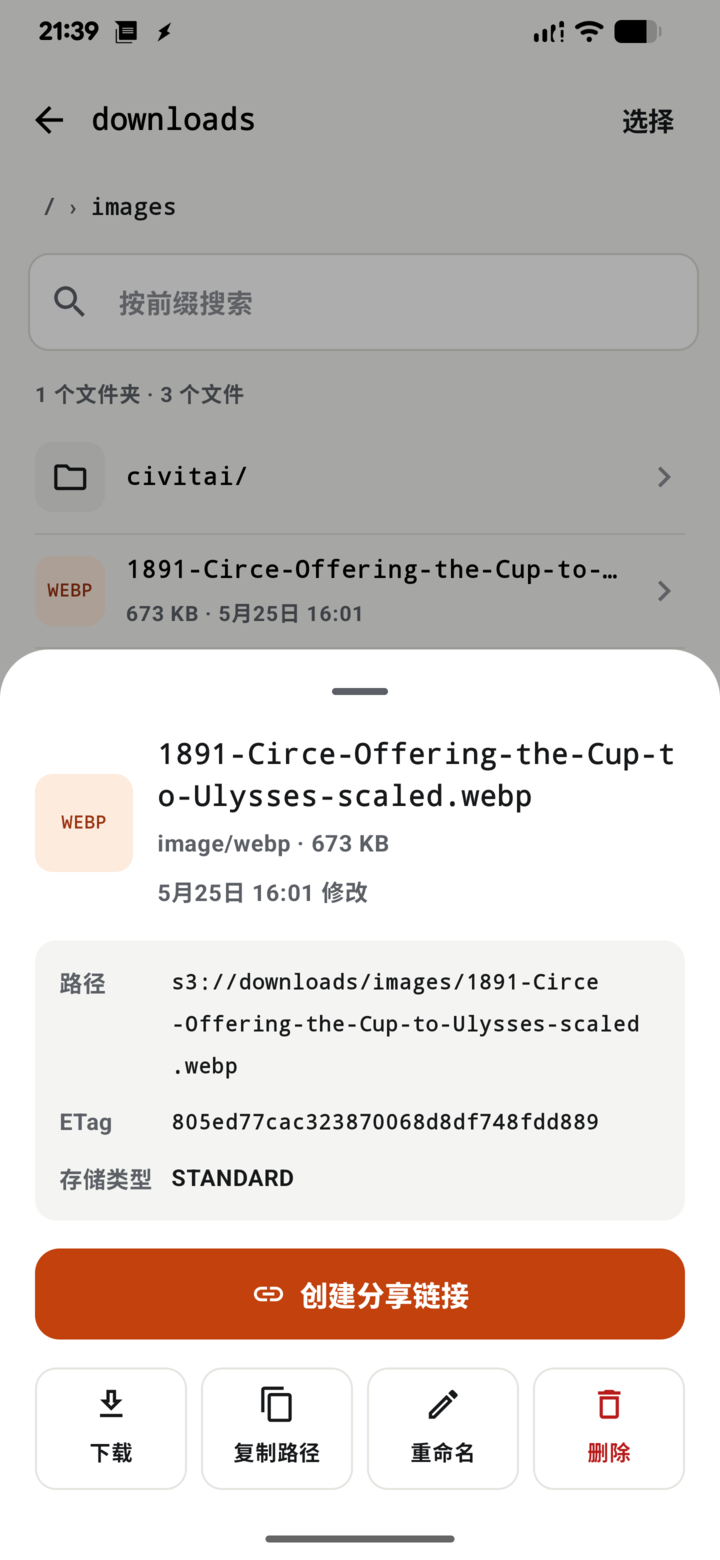
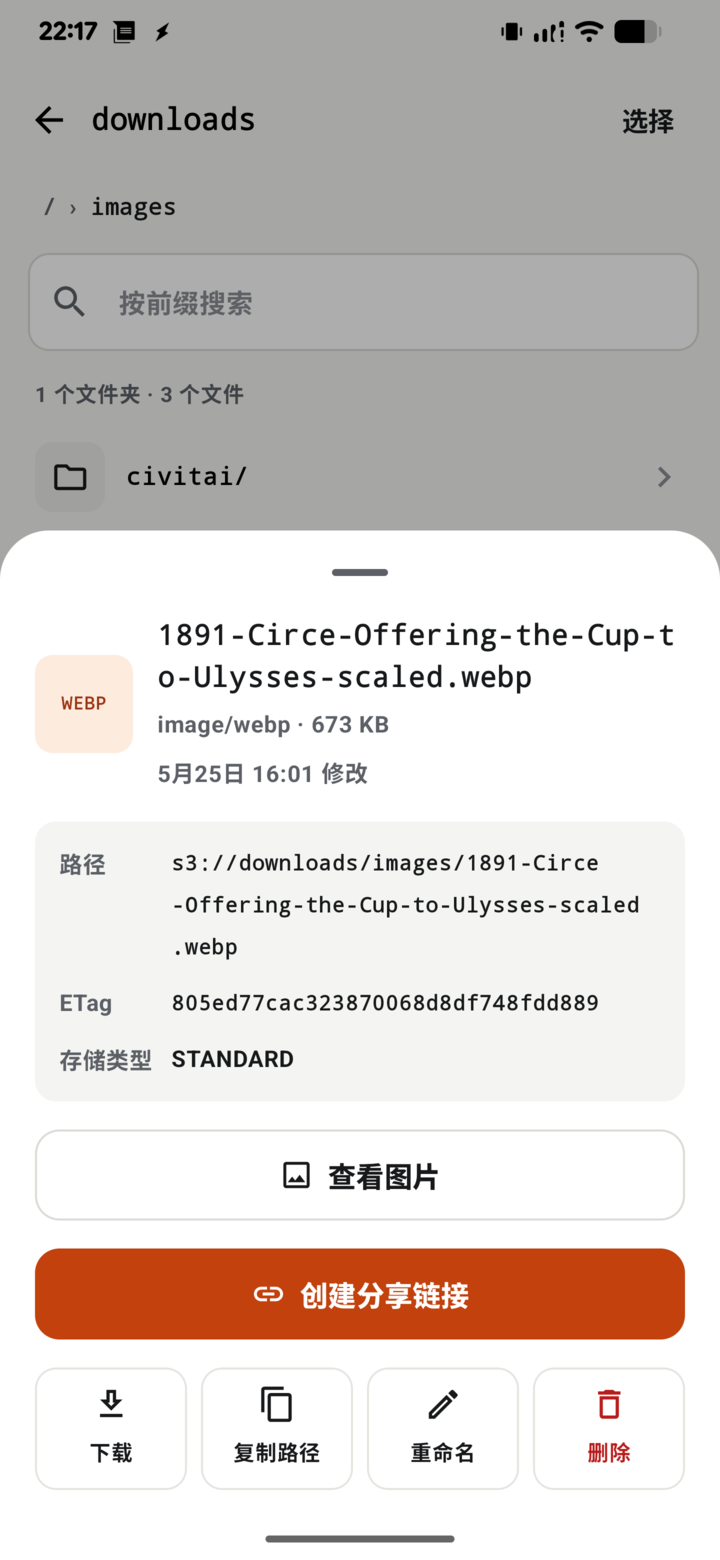
Rewrite README and refresh screenshots
Structure the README around what the app does and how to use it: badges, screenshots, feature and provider tables, quick start, sharing model, compatibility notes, build instructions, project layout, tech stack, privacy, limitations and contributing. Redact the endpoint in the buckets screenshot, show the new preview action in the file sheet, and replace the share-history shot with the image viewer.

diff --git a/README.md b/README.md
@@ -1,43 +1,191 @@
-# S3 浏览器（Android）
+<h1 align="center">S3 浏览器</h1>
 
-手机上管理 S3 兼容对象存储：浏览存储桶和文件、查看文本和图片、播放视频、上传下载、创建预签名分享链接、新建存储桶。音频、SVG 用预签名链接交给系统里已安装的其他应用打开。
+<p align="center">
+  Android 上的 S3 兼容对象存储客户端<br>
+  浏览、预览、上传下载，用预签名链接分享文件。
+</p>
 
-除了对象存储本身没有任何后端；对象存储 API 不支持的功能不做。分享就是 SigV4 预签名链接（最长 7 天、不能撤销、没有访问统计），分享记录只存在本机。
+<p align="center">
+  <a href="https://github.com/zcq100/s3-browser/releases/latest"><img alt="Release" src="https://img.shields.io/badge/release-v1.0.0-blue"></a>
+  <img alt="Android 8.0+" src="https://img.shields.io/badge/Android-8.0%2B-3DDC84?logo=android&logoColor=white">
+  <img alt="Kotlin 2.4" src="https://img.shields.io/badge/Kotlin-2.4-7F52FF?logo=kotlin&logoColor=white">
+  <img alt="Jetpack Compose" src="https://img.shields.io/badge/Jetpack%20Compose-Material%203-4285F4?logo=jetpackcompose&logoColor=white">
+  <img alt="S3 compatible" src="https://img.shields.io/badge/API-S3%20compatible-569A31">
+</p>
 
-支持 AWS S3、MinIO、阿里云 OSS、腾讯云 COS、华为云 OBS、七牛 Kodo、Cloudflare R2 及其他 S3 兼容服务。
+S3 浏览器是一个原生 Android 应用，用来管理 S3 兼容对象存储：浏览存储桶和文件、查看文本/图片、内置播放视频、上传下载，以及用 SigV4 预签名链接分享单个文件。
+
+## 设计原则
+
+- **没有后端。** 应用不依赖任何自建服务，请求直接发往你配置的对象存储；分享就是把对象签成一条 URL。
+- **只做 S3 API 能做的事。** 没有回收站、跨桶移动、服务端分享记录这类需要额外服务的功能。
+- **凭证不出设备。** Secret Key 用 Android Keystore 中不可导出的 AES 密钥加密后才落盘，没有账号、遥测或云端同步。
 
 ## 截图
 
 | 存储桶 | 浏览文件 | 文件操作 |
 |:---:|:---:|:---:|
 | <img src="docs/screenshots/01-buckets.png" width="240" alt="存储桶列表"> | <img src="docs/screenshots/02-files.png" width="240" alt="浏览文件"> | <img src="docs/screenshots/03-file-actions.png" width="240" alt="文件操作"> |
-| **创建分享链接** | **链接已生成** | **本机分享记录** |
-| <img src="docs/screenshots/04-share-form.png" width="240" alt="创建分享链接"> | <img src="docs/screenshots/05-share-link.png" width="240" alt="链接已生成"> | <img src="docs/screenshots/06-shares.png" width="240" alt="本机分享记录"> |
+| **创建分享链接** | **链接已生成** | **查看图片** |
+| <img src="docs/screenshots/04-share-form.png" width="240" alt="创建分享链接"> | <img src="docs/screenshots/05-share-link.png" width="240" alt="链接已生成"> | <img src="docs/screenshots/06-image-preview.webp" width="240" alt="查看图片"> |
 
 > 截图中的预签名链接与二维码已打码。
 
-## 构建
+## 功能
 
-需要 JDK 17+（带 `javac`）和 Android SDK（compileSdk 37）。系统只有 JRE 时可用 Android Studio 自带的 JBR：
+| 模块 | 能力 |
+|---|---|
+| **连接** | 多连接切换；服务商预设；路径风格 / 虚拟主机风格寻址；可选的自定义 Endpoint |
+| **浏览** | 目录层级、前缀搜索、分页加载；桶列表支持下拉刷新，公开读的桶会标记出来 |
+| **上传下载** | 多选上传与下载；下载交给系统 DownloadManager，保存到「下载/S3」 |
+| **文件操作** | 新建文件夹、重命名、删除、复制 `s3://` 路径 |
+| **查看** | 文本（UTF-8 / UTF-16 / GB18030，自动识别二进制）、图片（采样解码 + 双指缩放）、视频（流式播放，带进度控制） |
+| **分享** | 预签名链接：1 小时 / 1 天 / 7 天 / 自定义；二维码；打开即下载；复制或通过其他应用发送 |
+| **分享记录** | 只保存在本机；可重新生成、复制、删除，删除记录不影响已发出的链接 |
+| **桶管理** | 新建桶；公开读、版本控制、对象锁定（按服务商能力显示对应开关） |
+
+## 支持的服务
+
+请求全部走标准 S3 API。服务商预设只决定默认值和界面上显示哪些桶级功能。
+
+| 服务商 | Endpoint 示例 | 默认寻址 | 备注 |
+|---|---|---|---|
+| Amazon S3 | 留空，按区域自动生成 | 虚拟主机 | |
+| MinIO / 自建 | `http://192.168.1.10:9000` | 路径 | |
+| 阿里云 OSS | `https://oss-cn-hangzhou.aliyuncs.com` | 虚拟主机 | 只接受虚拟主机风格 |
+| 腾讯云 COS | `https://cos.ap-guangzhou.myqcloud.com` | 虚拟主机 | |
+| 华为云 OBS | `https://obs.cn-north-4.myhuaweicloud.com` | 虚拟主机 | |
+| 七牛云 Kodo | `https://s3.cn-east-1.qiniucs.com` | 虚拟主机 | |
+| Cloudflare R2 | `https://<账户ID>.r2.cloudflarestorage.com` | 路径 | 区域填 `auto` |
+| 其他 S3 兼容 | 自定义 | 路径 | 可手动切换寻址方式 |
+
+## 快速开始
+
+### 安装
+
+从 [Releases](https://github.com/zcq100/s3-browser/releases/latest) 下载 APK。要求 Android 8.0（API 26）及以上。
+
+也可以本地构建后安装：
 
 ```bash
-JAVA_HOME=/opt/android-studio/jbr ./gradlew :app:assembleDebug
+git clone https://github.com/zcq100/s3-browser.git
+cd s3-browser
+JAVA_HOME=/path/to/android-studio/jbr ./gradlew :app:assembleDebug
 adb install -r app/build/outputs/apk/debug/app-debug.apk
 ```
 
-## 结构
+### 添加连接
 
-- `app/src/main/java/com/zcq100/s3browser/s3/` — `ObjectStore` 接口及基于 AWS SDK for Kotlin 的实现
-- `.../data/` — 连接配置（Secret Key 经 Android Keystore 加密）、服务商预设、本机分享记录
-- `.../ui/` — Jetpack Compose 界面
-- `.../ui/preview/` — 文本、图片、视频的内置查看；音频和 SVG 签临时链接交给外部应用
-- `design/` — 设计稿源文件
+1. 打开应用，点击顶部的连接名称，在「切换连接」面板里选择「添加连接」。
+2. 选择服务商，填写 Endpoint、区域、Access Key 和 Secret Key。
+3. 按服务商选择寻址方式：MinIO 一般用路径风格，阿里云 OSS 必须用虚拟主机风格。
+4. 保存后即可看到桶列表；已保存的 Secret Key 不会在界面上回显。
 
-## 兼容性配置
+### 常用操作
 
-`AwsObjectStore` 为第三方 S3 服务做了这些调整：
+- **查看文件**：点文件打开详情面板，选择「查看文本 / 查看图片 / 播放视频」。音频和 SVG 交给系统里已安装的应用。
+- **分享文件**：详情面板 →「创建分享链接」→ 选择有效期 → 生成后可复制链接或展示二维码。
+- **下载**：面板里的「下载」，或在「选择」模式下多选后下载。
+- **新建桶**：桶列表右上角「新建桶」，按需开启公开读、版本控制或对象锁定。
+
+## 分享链接的工作方式
+
+分享链接是 SigV4 预签名 URL，拿到链接的人都能直接下载，**不需要登录，也无法撤销**。签名有效期最长 7 天，应用不记录访问次数；要提前作废，只能删除或移动对象，或者停用对应的签名密钥。分享记录只保存在本机，卸载应用或清除数据后不会保留。
+
+## 与第三方 S3 服务的兼容性
+
+`AwsObjectStore` 针对兼容服务做了这些调整：
 
 - 只在 API 强制要求时计算校验和（`WHEN_REQUIRED`），不默认附加 CRC32；
 - 关闭 aws-chunked 流式上传，用 Content-Length + 完整签名上传；
-- 删除逐个调用 DeleteObject，不用要求 Content-MD5/校验和头的 DeleteObjects；
-- 每个连接可切换路径风格 / 虚拟主机风格寻址（阿里云 OSS 只接受虚拟主机风格）。
+- 删除时逐个调用 `DeleteObject`，不用强制要求 Content-MD5 / 校验和头的 `DeleteObjects`；
+- 每个连接可切换路径风格 / 虚拟主机风格寻址。
+
+## 从源码构建
+
+**要求**：JDK 17+（包含 `javac`）、Android SDK（compileSdk 37）。如果系统只有 JRE，可以使用 Android Studio 自带的 JBR。
+
+```bash
+# 单元测试
+./gradlew :app:testDebugUnitTest
+
+# 调试包
+JAVA_HOME=/path/to/android-studio/jbr ./gradlew :app:assembleDebug
+```
+
+正式包使用自己的 keystore 签名，通过环境变量传入：
+
+```bash
+export RELEASE_KEYSTORE_FILE=/path/to/release.jks
+export RELEASE_KEYSTORE_PASSWORD=...
+export RELEASE_KEY_ALIAS=...
+export RELEASE_KEY_PASSWORD=...
+
+./gradlew :app:assembleRelease -PversionName=1.0.0 -PversionCode=10000
+```
+
+## 项目结构
+
+```
+app/src/main/java/com/zcq100/s3browser/
+├── s3/            ObjectStore 接口、AWS SDK 实现、错误映射
+├── data/          连接配置（Keystore 加密）、服务商预设、本机分享记录
+└── ui/
+    ├── buckets/    桶列表、新建桶
+    ├── files/      文件浏览、选择模式、操作面板
+    ├── preview/    文本、图片、视频查看
+    ├── share/      创建分享链接、二维码、分享记录
+    ├── connection/ 添加与编辑连接
+    ├── common/     通用组件与格式化
+    └── theme/      色板与主题
+design/            UI 设计稿
+docs/screenshots/  README 截图
+```
+
+## 技术栈
+
+| 类别 | 使用 |
+|---|---|
+| 语言与 UI | Kotlin 2.4、Jetpack Compose、Material 3、Navigation Compose |
+| 对象存储 | AWS SDK for Kotlin（`aws.sdk.kotlin:s3`） |
+| 本地存储 | DataStore Preferences、kotlinx.serialization |
+| 密钥保护 | Android Keystore（AES/GCM） |
+| 二维码 | ZXing Core |
+| 构建 | Gradle 9.8、AGP 9.5、JDK 17、compileSdk 37 |
+| 最低版本 | Android 8.0（API 26） |
+
+## 安全与隐私
+
+- Secret Key 只在内存中明文存在，落盘前用 Android Keystore 加密；`allowBackup=false`，不会被系统备份到云端。
+- 应用没有自有账号体系和服务器，除配置的对象存储 Endpoint 外不发送任何数据，也没有统计或崩溃上报。
+- 分享链接本身就是访问凭证，转发或截图时注意范围。
+- 下载请求交给系统 DownloadManager，应用进程不参与文件落盘。
+
+## 已知限制
+
+- 预签名链接最长 7 天，不能撤销、不能限制下载次数。
+- 不提供对象版本浏览、ACL / 桶策略编辑、跨桶移动；重命名是 Copy + Delete。
+- 文本预览只读取前 512 KB，图片超过 32 MB 会提示下载后查看。
+- 视频播放依赖系统解码器；编码不受支持时会提示下载后用本机播放器打开。
+- 上传在应用内进行，过程中请保持应用在前台。
+- 第三方服务只有确认支持的功能才会出现在新建桶界面，宁可少显示一个开关，也不让用户点了才报错。
+
+## 贡献
+
+欢迎提交 Issue 和 Pull Request。
+
+- 报告兼容性问题时，请附上服务商、Endpoint 风格（路径 / 虚拟主机）以及错误码或响应体。
+- 新增服务商：在 `data/Provider.kt` 里补充预设和功能集合，注意默认寻址方式。
+- 提交前请运行 `./gradlew :app:testDebugUnitTest :app:assembleDebug`，并保持 UI 使用现有的 `Palette` 与公共组件。
+- 新的存储操作请加在 `ObjectStore` 接口上，不要在 UI 层直接依赖 AWS SDK。
+
+## 许可证
+
+仓库目前没有 `LICENSE` 文件；在补充许可证之前，代码保留所有权利。
+
+## 致谢
+
+- [AWS SDK for Kotlin](https://github.com/awslabs/aws-sdk-kotlin)
+- [Jetpack Compose](https://developer.android.com/jetpack/compose)
+- [ZXing](https://github.com/zxing/zxing)
+- [AndroidX](https://developer.android.com/jetpack/androidx)
